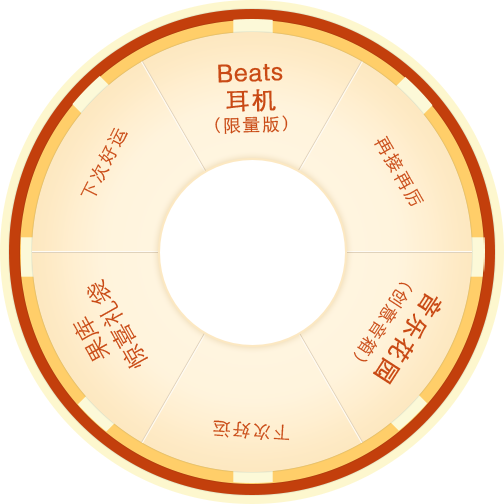
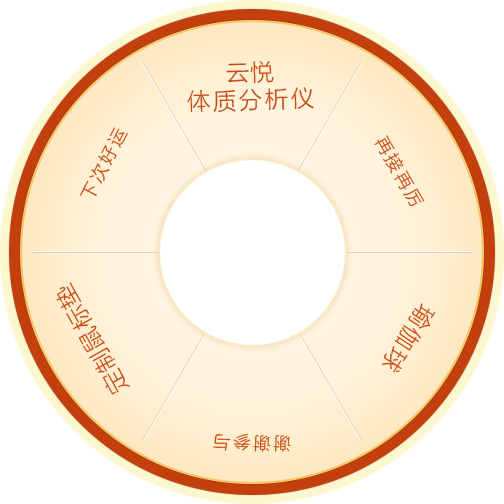
update

diff --git a/raspberry/lotto/templates/lotto.html b/raspberry/lotto/templates/lotto.html
@@ -28,7 +28,7 @@
             .main>div {width:320px;margin-left:-160px;left:50%;position:relative;overflow:hidden;}
     
             .rotate {
-                width:320px;margin-left:-160px;left:50%;position:relative;padding-bottom:5px;overflow:hidden;height: 280px;margin-top: 30px;
+                width:320px;margin-left:-160px;left:50%;position:relative;padding-bottom:5px;overflow:hidden;height: 280px;margin-top: 170px;
             }
             .rotate-bg 
             {
@@ -45,11 +45,11 @@
             {
                 position:absolute;
                 width:320px;
-                height:413px;
+                height:488px;
                 background:url({% static 'images/bg.png' %}) no-repeat;
-                -webkit-background-size:320px 413px;
-                background-size:320px 413px;
-                margin-top: 20px;
+                -webkit-background-size:320px 488px;
+                background-size:320px 488px;
+                margin-top: 0px;
             }
             .rotate .btn-lottery {
                 width:115px;
@@ -86,23 +86,7 @@
 
 <body>
     <div class="main" id="main">
-        <div>
-            <div id="award-winner" style="font-size:10px;color:white;height:20px;background:#959595;">
-                <div style="width:900px;height:20px;white-space: nowrap;overflow:hidden;" id="scroll_div" class="scroll_div">
-                    <div id="scroll_begin">
-                        随时随地刷果库！@发炎君 是个大娘炮！@果库某工程师 为女用户加持！@果库一枝花 祝你一路顺风！@蜗牛大爷君 为每个男用户默念祝福！随时随地刷果库！@发炎君 是个大娘炮！@果库某工程师 为女用户加持！@果库一枝花 祝你一路顺风！@蜗牛大爷君 为每个男用户默念祝福！
-                    </div>
-                    <div id="scroll_end"></div>
-                </div>
-                <script type="text/javascript">ScrollImgLeft();</script>
-            </div>
-        </div>
         <div class="header">
-            <a href="{% url 'lotto_share_to_sina_weibo' %}?session={{session}}&token={{token}}">
-                <div id="sina-btn" class="sina-btn">
-                    <img src="{% static 'images/sina.png' %}" width="17" height="13" style="display:inline-block;"><span>&nbsp;分享到微博</span>
-                </div>
-            </a>
             <div class="rotate">
                 <div class="rotate-bg"></div>
                 <div class="btn-lottery"></div>
@@ -112,19 +96,24 @@
             <div style="padding:10px 25px 10px 25px;">
                 <p style="margin-top:0px;">
                     <span style="font-size:13px;color:#666;">活动时间：</span>
-                    2014年2月25日 - 3月4日
+                    2014年4月16日 - 4月22日
                 </p>
                 <p style="margin-top:10px;">
                     <span style="font-size:13px;color:#666;">活动规则：</span>
                     成功分享至微博即可获得1次抽奖机会，每人每天最多2次抽奖机会。
                 </p>
                 <p style="margin-top:10px;">
-                    <span style="font-size:13px;color:#666;">奖品发放：</span>
-                    转盘获奖后，请耐心等待。活动结束后一周内，果库工作人员会统一通过微博私信联系所有获奖用户，安排奖品发送。
+                    <span style="font-size:13px;color:#666;">奖品介绍：</span>
+                    云悦体质分析仪（30台）限量版瑜伽球（30个）定制鼠标垫（50个）。
                 </p>
                 <p style="margin-top:10px;">本活动一切解释权归果库所有。若发现作弊及僵尸用户，果库有权取消其获奖资格。</p>
             </div>
         </div>
+        <a href="{% url 'lotto_share_to_sina_weibo' %}?session={{session}}&token={{token}}">
+            <div id="sina-btn" class="sina-btn">
+                <img src="{% static 'images/sina.png' %}" width="17" height="13" style="display:inline-block;"><span>&nbsp;分享到微博</span>
+            </div>
+        </a>
     </div>
 </body>
 </html>
